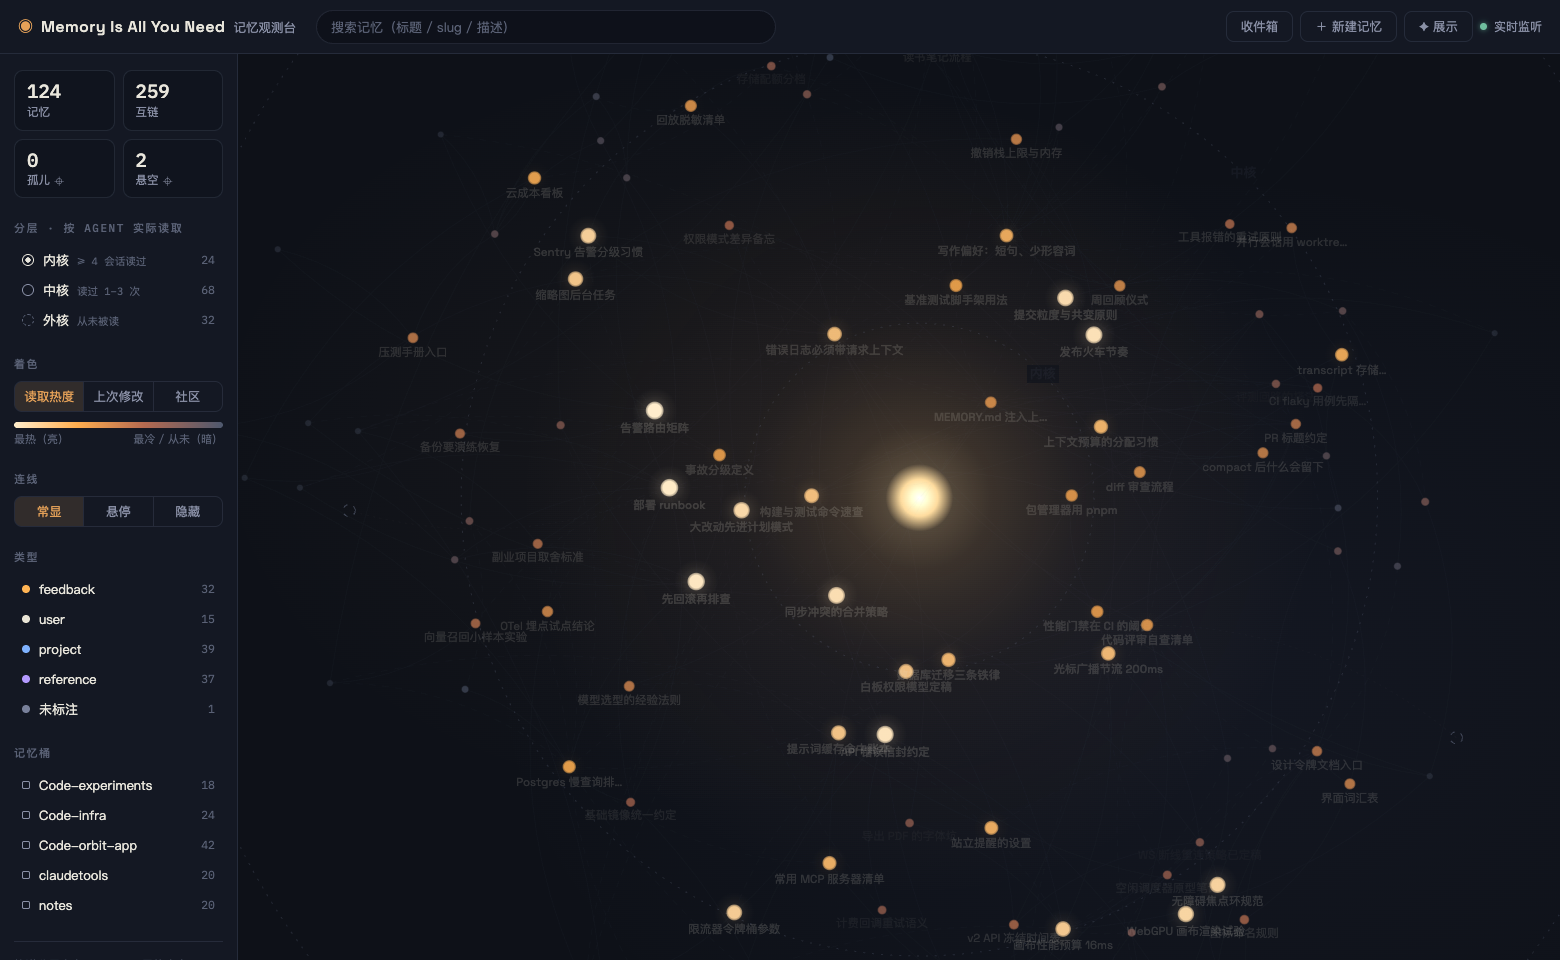
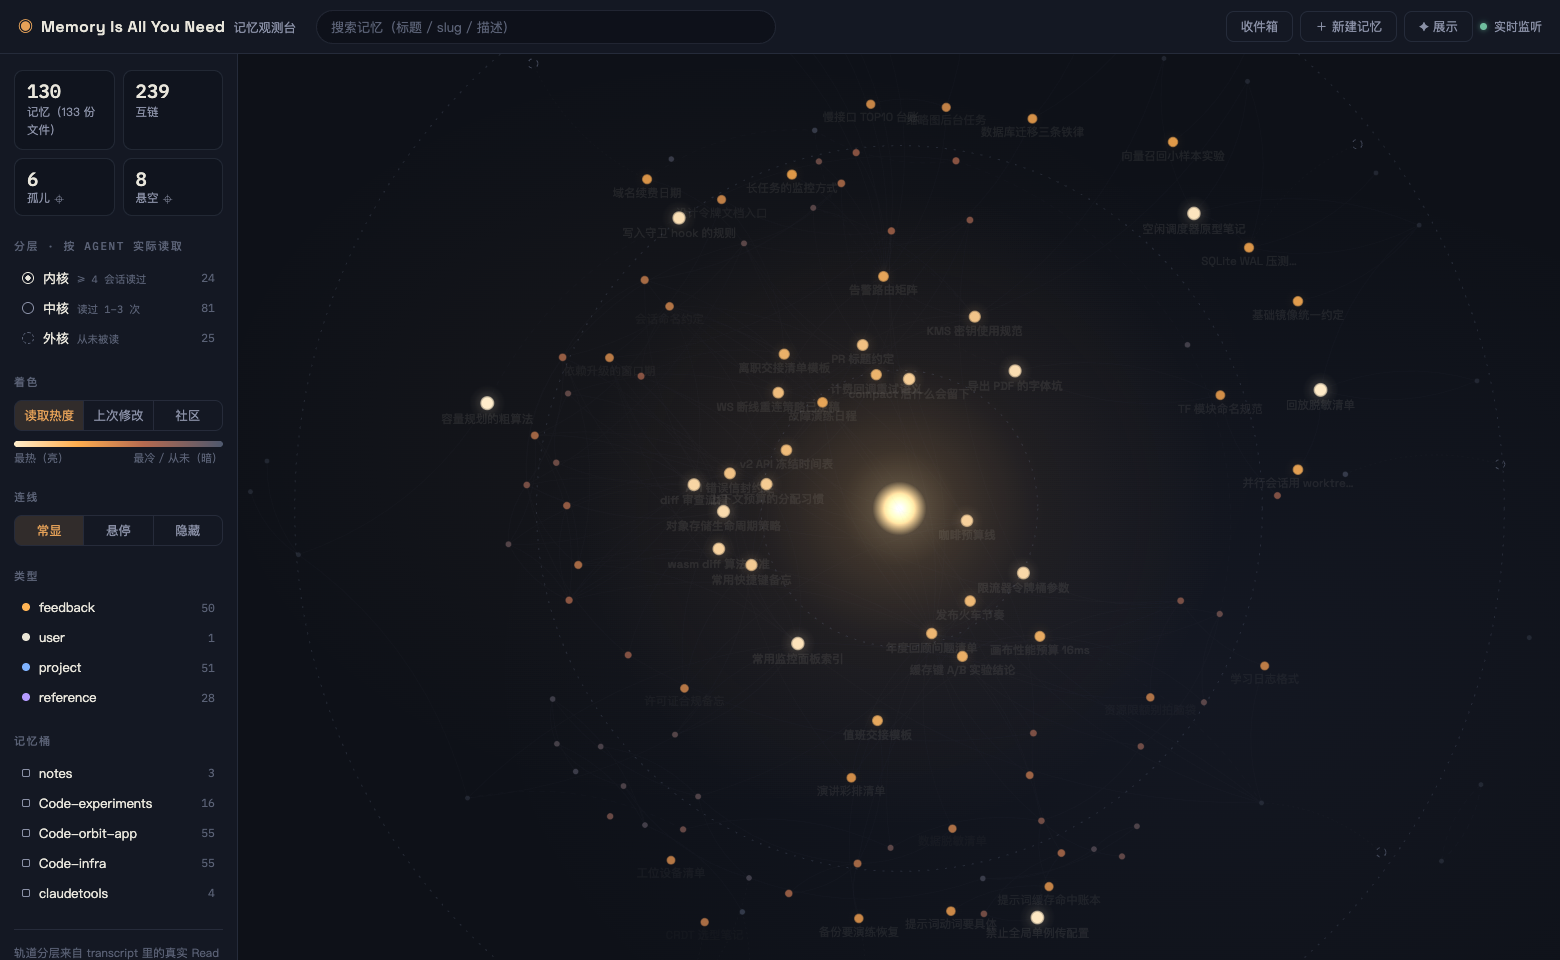
feat: LENS_ANONYMIZE 匿名截图模式 + hero 换真实结构脱敏图
演示数据怎么编都不如真实图谱有机——匿名模式保留真实结构
（互链/分层/热度/社区），API 出口把标题、描述、桶名换成占位文案。
hero 即用该模式对真实观测台（130 记忆/239 互链）所截。

diff --git a/src/server/anonymize.ts b/src/server/anonymize.ts
@@ -1,0 +1,82 @@
+import type { GraphPayload } from '../shared/types.js'
+
+/**
+ * 匿名截图模式（LENS_ANONYMIZE=1）：真实图谱的结构原样保留（互链/分层/读取热度/社区），
+ * 只把会泄露内容的文字——标题、描述、桶名——在 API 出口替换成占位文案。
+ * 用途：对着真实数据截演示图/录屏，不暴露记忆内容。详情接口不受影响，仅星图脱敏。
+ */
+
+const BUCKET_ALIASES = [
+  'Code-orbit-app', 'Code-infra', 'Code-experiments', 'claudetools', 'notes',
+  'scratch', 'sandbox', 'playground', 'archive', 'misc',
+]
+
+const TITLE_POOL = [
+  '构建与测试命令速查', 'API 错误信封约定', '数据库迁移三条铁律', '代码评审自查清单', '包管理器用 pnpm',
+  '发布火车节奏', 'v2 API 冻结时间表', 'CI flaky 用例先隔离再修', '错误日志必须带请求上下文', '禁止全局单例传配置',
+  'WS 断线重连策略已定稿', '设计令牌文档入口', 'E2E 种子数据的生成方式', '画布性能预算 16ms', 'PR 标题约定',
+  '界面词汇表', '旧版登录流程（已废弃）', '待清理的开关列表', 'Sentry 告警分级习惯', '新人入职清单',
+  '品牌素材位置', '2025 复盘要点', '部署 runbook', '先回滚再排查', 'Postgres 慢查询排查手册',
+  '资源限额别拍脑袋', '密钥轮换排期', 'TF 模块命名规范', '备份要演练恢复', '云成本看板',
+  '值班交接模板', '遗留虚拟机清单', '常用监控面板索引', '旧 nginx 调优记录（存档）', '写作偏好：短句、少形容词',
+  '会议纪要模板', '读书笔记流程', '上午免打扰', '博客草稿索引', '演讲选题池',
+  '年度回顾问题清单', '常用快捷键备忘', '播客待听队列', '出行清单', '缓存键 A/B 实验结论',
+  '向量召回小样本实验', 'WebGPU 画布渲染试验', 'SQLite WAL 压测数据', 'LRU 淘汰参数扫描', '提示词缓存命中账本',
+  'wasm diff 算法基准', '空闲调度器原型笔记', 'CRDT 选型笔记', '离线优先方案取舍', '图片管线压缩对比',
+  '火焰图采集流程', '特征仓库调研存档', '基准测试脚手架用法', '放弃 GraphQL 的理由存档', '限流器令牌桶参数',
+  'monorepo 拆分预研', 'OTel 埋点试点结论', '大改动先进计划模式', '写入守卫 hook 的规则', '子代理扇出的适用场景',
+  'MEMORY.md 注入上限事实', 'headless 批量跑法', '常用 MCP 服务器清单', 'skill 与 rule 的分工', 'transcript 存储位置',
+  'compact 后什么会留下', '权限模式差异备忘', '并行会话用 worktree 隔离', '提示词动词要具体', '上下文预算的分配习惯',
+  '评测回路的搭法', 'diff 审查流程', '会话命名约定', '工具报错的重试原则', '提交粒度与共变原则',
+  '长任务的监控方式', '模型选型的经验法则', '同步冲突的合并策略', '光标广播节流 200ms', '撤销栈上限与内存',
+  '导出 PDF 的字体坑', '移动端手势映射表', '白板权限模型定稿', '评论锚点漂移的修法', '缩略图后台任务',
+  '存储配额分档', '搜索索引重建时机', '表情回应的范围约定', '模板库运营流程', '无障碍焦点环规范',
+  '粘贴行为规则', '回放脱敏清单', '计费回调重试语义', '流失看板入口', '内测用户委员会名单位置',
+  '性能门禁在 CI 的阈值', '图标命名规则', '告警路由矩阵', 'CDN 缓存规则备忘', '连接池参数定稿',
+  '对象存储生命周期策略', 'VPN 排障三步', '基础镜像统一约定', '预发数据刷新节奏', '域名续费日期',
+  '压测手册入口', '事故分级定义', 'IPv6 灰度笔记', 'KMS 密钥使用规范', '周回顾仪式',
+  '收件箱清零规则', '学习日志格式', '演讲彩排清单', '书摘进知识库的路径', '工位设备清单',
+  '咖啡预算线', '家庭日历同步方式', '副业项目取舍标准', '站立提醒的设置', '灰度放量的节奏表',
+  '慢接口 TOP10 台账', '客服工单归因口径', '数据脱敏清单', '实验平台指标口径', '崩溃率红线与响应',
+  '依赖升级的窗口期', '第三方配额与限速', '许可证合规备忘', '容量规划的粗算法', '故障演练日程',
+  '接口废弃流程', '埋点命名规范', '离职交接清单模板', '开源贡献流程', '技术雷达季度笔记',
+  '团队术语表', '周边工具账号索引', '录屏与截图规范', '文档目录结构约定', '晨会三问模板',
+]
+
+function hash(s: string): number {
+  let h = 2166136261
+  for (let i = 0; i < s.length; i++) {
+    h ^= s.charCodeAt(i)
+    h = Math.imul(h, 16777619)
+  }
+  return h >>> 0
+}
+
+export function anonymizeGraph(g: GraphPayload): GraphPayload {
+  // 桶：按条目数降序映射到固定假名，全程稳定
+  const order = [...g.buckets].sort((a, b) => b.count - a.count)
+  const bucketAlias = new Map<string, string>()
+  order.forEach((b, i) => bucketAlias.set(b.id, BUCKET_ALIASES[i % BUCKET_ALIASES.length]))
+
+  // 标题：按 id 哈希排序后顺序领取假标题，同一数据集下稳定且互不重复（池子用尽才复用）
+  const sorted = [...g.nodes].sort((a, b) => hash(a.id) - hash(b.id))
+  const titleOf = new Map<string, string>()
+  sorted.forEach((n, i) => titleOf.set(n.id, TITLE_POOL[i % TITLE_POOL.length]))
+
+  return {
+    ...g,
+    buckets: g.buckets.map((b) => ({
+      ...b,
+      id: bucketAlias.get(b.id) ?? b.id,
+      label: bucketAlias.get(b.id) ?? b.label,
+      dir: '(anonymized)',
+    })),
+    nodes: g.nodes.map((n) => ({
+      ...n,
+      title: titleOf.get(n.id) ?? n.title,
+      description: '',
+      bucket: bucketAlias.get(n.bucket) ?? n.bucket,
+      buckets: n.buckets?.map((b) => bucketAlias.get(b) ?? b) ?? n.buckets,
+    })),
+  }
+}

diff --git a/src/server/index.ts b/src/server/index.ts
@@ -8,6 +8,7 @@ import { buildGraph, listMemoryDirs, readEntry, PROJECTS_ROOT } from './scan.js'
 import { MutateError, addLink, createEntry, deleteEntry, saveEntry } from './mutate.js'
 import { addComment, deleteComment, listComments, setCommentStatus } from './comments.js'
 import { deleteInboxItem, listInbox, setInboxStatus } from './inbox.js'
+import { anonymizeGraph } from './anonymize.js'
 import { startCardListener } from './card-listener.js'
 import { refreshReadStats, type ReadStats } from './readstats.js'
 import type { GraphPayload } from '../shared/types.js'
@@ -26,7 +27,9 @@ console.log(
 
 const app = new Hono()
 
-app.get('/api/graph', (c) => c.json(graph))
+// 匿名截图模式：结构全真、文字全假，对着真实数据截演示图不泄内容
+const ANONYMIZE = process.env.LENS_ANONYMIZE === '1'
+app.get('/api/graph', (c) => c.json(ANONYMIZE ? anonymizeGraph(graph) : graph))
 
 app.get('/api/entry', (c) => {
   const id = c.req.query('id')

diff --git a/README.md b/README.md
@@ -114,6 +114,7 @@ cp scripts/scan-job.env.example scripts/scan-job.env   # gitignored
 | `LENS_SCAN_BUCKET` | Which memory bucket Feishu candidates are written to |
 | `LENS_SCAN_PERSONA` | How the drafting prompt refers to you |
 | `LENS_NOTIFY_CHAT` | chat_id of the review-card group (defaults to searching by group name) |
+| `LENS_ANONYMIZE=1` | Screenshot mode: the star map keeps your real graph structure but swaps all titles and bucket names for placeholders — take demo shots of real data without leaking content |
 
 The Feishu loop (scanner + review cards) requires a logged-in [lark-cli](https://open.feishu.cn/); without it, every local feature (star map / editing / comments / constraint mining) still works.
 

diff --git a/README.zh-CN.md b/README.zh-CN.md
@@ -112,6 +112,7 @@ cp scripts/scan-job.env.example scripts/scan-job.env   # 已 gitignore
 | `LENS_SCAN_BUCKET` | 飞书候选写入哪个记忆桶 |
 | `LENS_SCAN_PERSONA` | 起草 prompt 里对你的称呼 |
 | `LENS_NOTIFY_CHAT` | 审核卡片群 chat_id（缺省按群名「记忆观测台」搜索） |
+| `LENS_ANONYMIZE=1` | 截图模式：星图保留真实结构，标题和桶名全部换成占位文案——对着真实数据截演示图不泄内容 |
 
 飞书链路（扫描 + 审核卡片）依赖已登录的 [lark-cli](https://open.feishu.cn/)；不配则纯本地功能（星图/编辑/评论/约束挖掘）全部可用。
 
